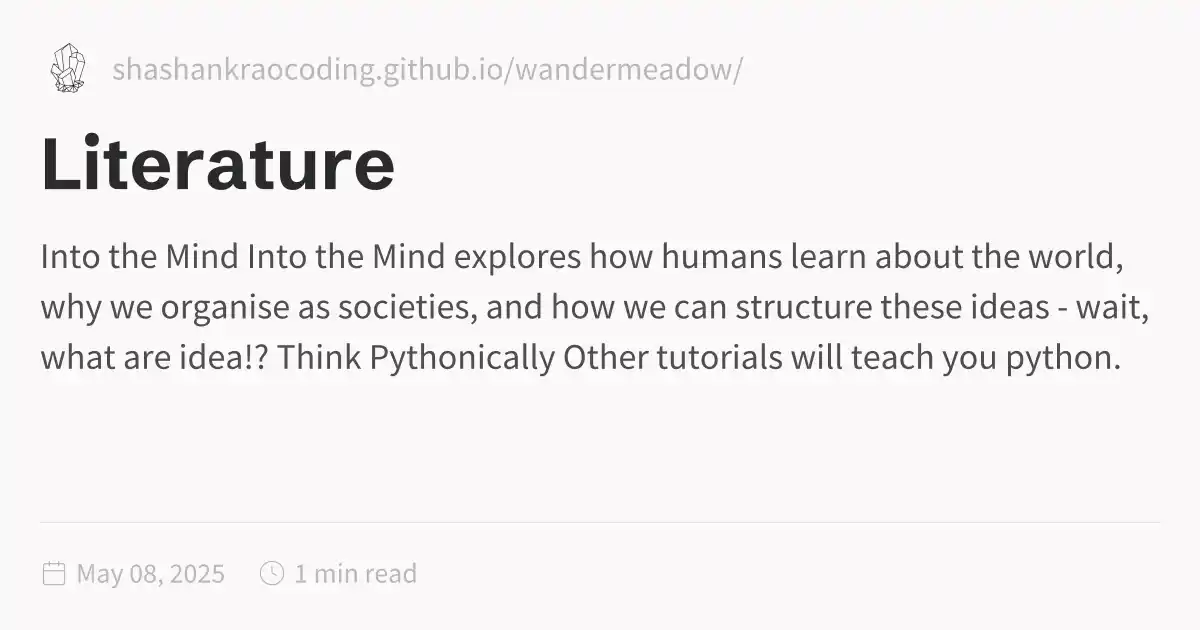
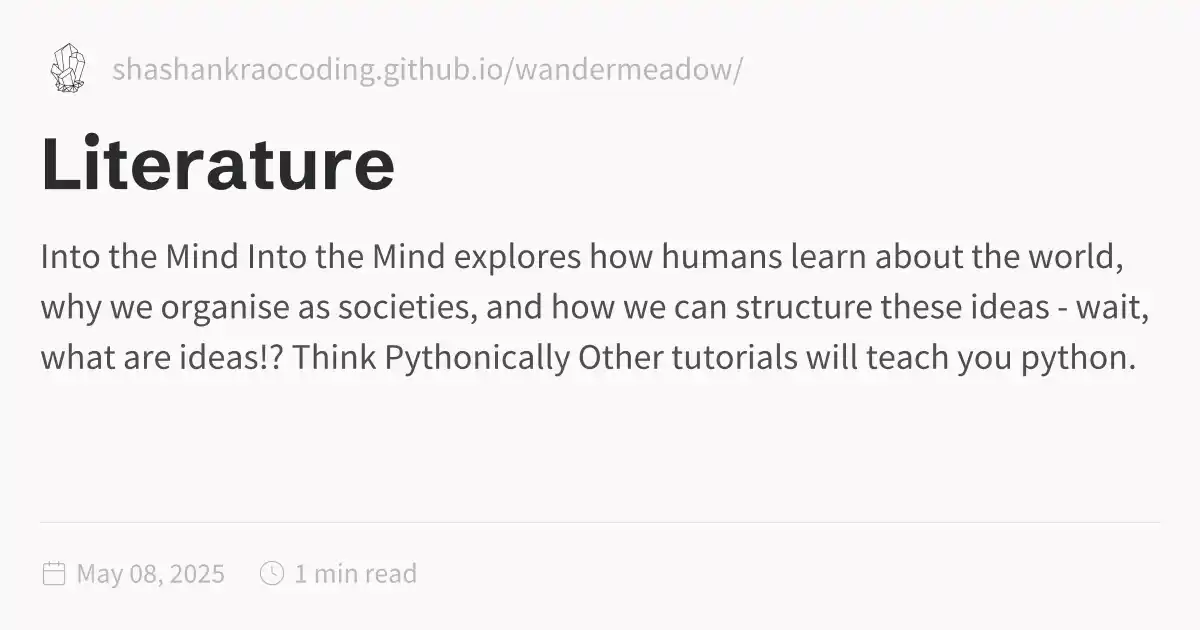
Update public folder - 2025-05-08\_1808

Changed region(s): [[0.185, 0.5429, 0.9558, 0.6032]]

diff --git a/Projects/index.html b/Projects/index.html
@@ -116,6 +116,6 @@ pre:hover > .expand-button {
   padding: 0 12px;
   font-size: 14px;
 }
[2 lines of base64/hex data omitted]
 </script><script type="module">function f(i,e){if(!i)return;function r(o){o.target===this&&(o.preventDefault(),o.stopPropagation(),e())}function t(o){o.key.startsWith("Esc")&&(o.preventDefault(),e())}i?.addEventListener("click",r),window.addCleanup(()=>i?.removeEventListener("click",r)),document.addEventListener("keydown",t),window.addCleanup(()=>document.removeEventListener("keydown",t))}function y(i){for(;i.firstChild;)i.removeChild(i.firstChild)}var h=class{constructor(e,r){this.container=e;this.content=r;this.setupEventListeners(),this.setupNavigationControls(),this.resetTransform()}isDragging=!1;startPan={x:0,y:0};currentPan={x:0,y:0};scale=1;MIN_SCALE=.5;MAX_SCALE=3;cleanups=[];setupEventListeners(){let e=this.onMouseDown.bind(this),r=this.onMouseMove.bind(this),t=this.onMouseUp.bind(this),o=this.resetTransform.bind(this);this.container.addEventListener("mousedown",e),document.addEventListener("mousemove",r),document.addEventListener("mouseup",t),window.addEventListener("resize",o),this.cleanups.push(()=>this.container.removeEventListener("mousedown",e),()=>document.removeEventListener("mousemove",r),()=>document.removeEventListener("mouseup",t),()=>window.removeEventListener("resize",o))}cleanup(){for(let e of this.cleanups)e()}setupNavigationControls(){let e=document.createElement("div");e.className="mermaid-controls";let r=this.createButton("+",()=>this.zoom(.1)),t=this.createButton("-",()=>this.zoom(-.1)),o=this.createButton("Reset",()=>this.resetTransform());e.appendChild(t),e.appendChild(o),e.appendChild(r),this.container.appendChild(e)}createButton(e,r){let t=document.createElement("button");return t.textContent=e,t.className="mermaid-control-button",t.addEventListener("click",r),window.addCleanup(()=>t.removeEventListener("click",r)),t}onMouseDown(e){e.button===0&&(this.isDragging=!0,this.startPan={x:e.clientX-this.currentPan.x,y:e.clientY-this.currentPan.y},this.container.style.cursor="grabbing")}onMouseMove(e){this.isDragging&&(e.preventDefault(),this.currentPan={x:e.clientX-this.startPan.x,y:e.clientY-this.startPan.y},this.updateTransform())}onMouseUp(){this.isDragging=!1,this.container.style.cursor="grab"}zoom(e){let r=Math.min(Math.max(this.scale+e,this.MIN_SCALE),this.MAX_SCALE),t=this.content.getBoundingClientRect(),o=t.width/2,n=t.height/2,c=r-this.scale;this.currentPan.x-=o*c,this.currentPan.y-=n*c,this.scale=r,this.updateTransform()}updateTransform(){this.content.style.transform=`translate(${this.currentPan.x}px, ${this.currentPan.y}px) scale(${this.scale})`}resetTransform(){this.scale=1;let e=this.content.querySelector("svg");this.currentPan={x:e.getBoundingClientRect().width/2,y:e.getBoundingClientRect().height/2},this.updateTransform()}},C=["--secondary","--tertiary","--gray","--light","--lightgray","--highlight","--dark","--darkgray","--codeFont"],E;document.addEventListener("nav",async()=>{let e=document.querySelector(".center").querySelectorAll("code.mermaid");if(e.length===0)return;E||=await import("https://cdnjs.cloudflare.com/ajax/libs/mermaid/11.4.0/mermaid.esm.min.mjs");let r=E.default,t=new WeakMap;for(let n of e)t.set(n,n.innerText);async function o(){for(let s of e){s.removeAttribute("data-processed");let a=t.get(s);a&&(s.innerHTML=a)}let n=C.reduce((s,a)=>(s[a]=window.getComputedStyle(document.documentElement).getPropertyValue(a),s),{}),c=document.documentElement.getAttribute("saved-theme")==="dark";r.initialize({startOnLoad:!1,securityLevel:"loose",theme:c?"dark":"base",themeVariables:{fontFamily:n["--codeFont"],primaryColor:n["--light"],primaryTextColor:n["--darkgray"],primaryBorderColor:n["--tertiary"],lineColor:n["--darkgray"],secondaryColor:n["--secondary"],tertiaryColor:n["--tertiary"],clusterBkg:n["--light"],edgeLabelBackground:n["--highlight"]}}),await r.run({nodes:e})}await o(),document.addEventListener("themechange",o),window.addCleanup(()=>document.removeEventListener("themechange",o));for(let n=0;n<e.length;n++){let v=function(){let g=l.querySelector("#mermaid-space"),m=l.querySelector(".mermaid-content");if(!m)return;y(m);let w=c.querySelector("svg").cloneNode(!0);m.appendChild(w),l.classList.add("active"),g.style.cursor="grab",u=new h(g,m)},M=function(){l.classList.remove("active"),u?.cleanup(),u=null},c=e[n],s=c.parentElement,a=s.querySelector(".clipboard-button"),d=s.querySelector(".expand-button"),p=window.getComputedStyle(a),L=a.offsetWidth+parseFloat(p.marginLeft||"0")+parseFloat(p.marginRight||"0");d.style.right=`calc(${L}px + 0.3rem)`,s.prepend(d);let l=s.querySelector("#mermaid-container");if(!l)return;let u=null;d.addEventListener("click",v),f(l,M),window.addCleanup(()=>{u?.cleanup(),d.removeEventListener("click",v)})}});
 </script><script src="https://cdn.jsdelivr.net/npm/katex@0.16.11/dist/contrib/copy-tex.min.js" type="application/javascript"></script><script src="../postscript.js" type="module"></script></html>

diff --git a/Projects/Literature.html b/Projects/Literature.html
@@ -1,5 +1,5 @@
 <!DOCTYPE html>
-<html lang="en"><head><title>Literature</title><meta charset="utf-8"/><link rel="preconnect" href="https://fonts.googleapis.com"/><link rel="preconnect" href="https://fonts.gstatic.com"/><link rel="stylesheet" href="https://fonts.googleapis.com/css2?family=Schibsted Grotesk:wght@400;700&amp;family=Source Sans Pro:ital,wght@0,400;0,600;1,400;1,600&amp;family=IBM Plex Mono:wght@400;600&amp;display=swap"/><link rel="preconnect" href="https://cdnjs.cloudflare.com" crossorigin="anonymous"/><meta name="viewport" content="width=device-width, initial-scale=1.0"/><meta name="og:site_name" content="Wander Meadow"/><meta property="og:title" content="Literature"/><meta property="og:type" content="website"/><meta name="twitter:card" content="summary_large_image"/><meta name="twitter:title" content="Literature"/><meta name="twitter:description" content="Into the Mind Into the Mind explores how humans learn about the world, why we organise as societies, and how we can structure these ideas - wait, what are idea!? Think Pythonically Other tutorials will teach you python."/><meta property="og:description" content="Into the Mind Into the Mind explores how humans learn about the world, why we organise as societies, and how we can structure these ideas - wait, what are idea!? Think Pythonically Other tutorials will teach you python."/><meta property="og:image:alt" content="Into the Mind Into the Mind explores how humans learn about the world, why we organise as societies, and how we can structure these ideas - wait, what are idea!? Think Pythonically Other tutorials will teach you python."/><meta property="twitter:domain" content="shashankraocoding.github.io/wandermeadow/"/><meta property="og:url" content="https://shashankraocoding.github.io/wandermeadow/Projects/Literature"/><meta property="twitter:url" content="https://shashankraocoding.github.io/wandermeadow/Projects/Literature"/><link rel="icon" href="../static/icon.png"/><meta name="description" content="Into the Mind Into the Mind explores how humans learn about the world, why we organise as societies, and how we can structure these ideas - wait, what are idea!? Think Pythonically Other tutorials will teach you python."/><meta name="generator" content="Quartz"/><link href="../index.css" rel="stylesheet" type="text/css" spa-preserve/><style>.expand-button {
+<html lang="en"><head><title>Literature</title><meta charset="utf-8"/><link rel="preconnect" href="https://fonts.googleapis.com"/><link rel="preconnect" href="https://fonts.gstatic.com"/><link rel="stylesheet" href="https://fonts.googleapis.com/css2?family=Schibsted Grotesk:wght@400;700&amp;family=Source Sans Pro:ital,wght@0,400;0,600;1,400;1,600&amp;family=IBM Plex Mono:wght@400;600&amp;display=swap"/><link rel="preconnect" href="https://cdnjs.cloudflare.com" crossorigin="anonymous"/><meta name="viewport" content="width=device-width, initial-scale=1.0"/><meta name="og:site_name" content="Wander Meadow"/><meta property="og:title" content="Literature"/><meta property="og:type" content="website"/><meta name="twitter:card" content="summary_large_image"/><meta name="twitter:title" content="Literature"/><meta name="twitter:description" content="Into the Mind Into the Mind explores how humans learn about the world, why we organise as societies, and how we can structure these ideas - wait, what are ideas!? Think Pythonically Other tutorials will teach you python."/><meta property="og:description" content="Into the Mind Into the Mind explores how humans learn about the world, why we organise as societies, and how we can structure these ideas - wait, what are ideas!? Think Pythonically Other tutorials will teach you python."/><meta property="og:image:alt" content="Into the Mind Into the Mind explores how humans learn about the world, why we organise as societies, and how we can structure these ideas - wait, what are ideas!? Think Pythonically Other tutorials will teach you python."/><meta property="twitter:domain" content="shashankraocoding.github.io/wandermeadow/"/><meta property="og:url" content="https://shashankraocoding.github.io/wandermeadow/Projects/Literature"/><meta property="twitter:url" content="https://shashankraocoding.github.io/wandermeadow/Projects/Literature"/><link rel="icon" href="../static/icon.png"/><meta name="description" content="Into the Mind Into the Mind explores how humans learn about the world, why we organise as societies, and how we can structure these ideas - wait, what are ideas!? Think Pythonically Other tutorials will teach you python."/><meta name="generator" content="Quartz"/><link href="../index.css" rel="stylesheet" type="text/css" spa-preserve/><style>.expand-button {
   position: absolute;
   display: flex;
   float: right;
@@ -116,18 +116,18 @@ pre:hover > .expand-button {
   padding: 0 12px;
   font-size: 14px;
 }
[2 lines of base64/hex data omitted]
 	<div onclick="redirect('Projects/Into-the-Mind')" class="card"> 
 		<h3 id="into-the-mind">Into the Mind<a role="anchor" aria-hidden="true" tabindex="-1" data-no-popover="true" href="#into-the-mind" class="internal"><svg width="18" height="18" viewBox="0 0 24 24" fill="none" stroke="currentColor" stroke-width="2" stroke-linecap="round" stroke-linejoin="round"><path d="M10 13a5 5 0 0 0 7.54.54l3-3a5 5 0 0 0-7.07-7.07l-1.72 1.71"></path><path d="M14 11a5 5 0 0 0-7.54-.54l-3 3a5 5 0 0 0 7.07 7.07l1.71-1.71"></path></svg></a></h3> 
-		<p> Into the Mind explores how humans learn about the world, why we organise as societies, and how we can structure these ideas - wait, what are idea!? </p> 
+		<p> Into the Mind explores how humans learn about the world, why we organise as societies, and how we can structure these ideas - wait, what are ideas!? </p> 
 	</div>  
 	<div onclick="redirect('Projects/Think-Pythonically')" class="card"> 
 		<h3 id="think-pythonically">Think Pythonically<a role="anchor" aria-hidden="true" tabindex="-1" data-no-popover="true" href="#think-pythonically" class="internal"><svg width="18" height="18" viewBox="0 0 24 24" fill="none" stroke="currentColor" stroke-width="2" stroke-linecap="round" stroke-linejoin="round"><path d="M10 13a5 5 0 0 0 7.54.54l3-3a5 5 0 0 0-7.07-7.07l-1.72 1.71"></path><path d="M14 11a5 5 0 0 0-7.54-.54l-3 3a5 5 0 0 0 7.07 7.07l1.71-1.71"></path></svg></a></h3> 
-		<p> Other tutorials will teach you python. This one will teach you hot to learn and think pythonically. </p> 
+		<p> Other tutorials will teach you python. This one will teach you hot to learn and think pythonically. I've been programming for nearly 8 years in various languages, and this is how I would go about teaching myself. </p> 
 	</div>  
 	<div onclick="redirect('Projects/Records-from-Omnisciae')" class="card"> 
 		<h3 id="records-from-omnisciae">Records from Omnisciae<a role="anchor" aria-hidden="true" tabindex="-1" data-no-popover="true" href="#records-from-omnisciae" class="internal"><svg width="18" height="18" viewBox="0 0 24 24" fill="none" stroke="currentColor" stroke-width="2" stroke-linecap="round" stroke-linejoin="round"><path d="M10 13a5 5 0 0 0 7.54.54l3-3a5 5 0 0 0-7.07-7.07l-1.72 1.71"></path><path d="M14 11a5 5 0 0 0-7.54-.54l-3 3a5 5 0 0 0 7.07 7.07l1.71-1.71"></path></svg></a></h3> 
-		<p>My most ambitious fantasy-fiction story set in the realm of Ayonea!</p> 
+		<p>Coming soon</p> 
 	</div>     
 	<script src="https://shashankraocoding.github.io/wandermeadow/Website-Resources/Javascript/literature.js"></script>
 </div></article><hr/><div class="page-footer"></div></div><div class="right sidebar"><div class="graph"><h3>Graph View</h3><div class="graph-outer"><div class="graph-container" data-cfg="{&quot;drag&quot;:true,&quot;zoom&quot;:true,&quot;depth&quot;:1,&quot;scale&quot;:1.1,&quot;repelForce&quot;:0.5,&quot;centerForce&quot;:0.3,&quot;linkDistance&quot;:30,&quot;fontSize&quot;:0.6,&quot;opacityScale&quot;:1,&quot;showTags&quot;:true,&quot;removeTags&quot;:[],&quot;focusOnHover&quot;:false,&quot;enableRadial&quot;:false}"></div><button class="global-graph-icon" aria-label="Global Graph"><svg version="1.1" xmlns="http://www.w3.org/2000/svg" xmlns:xlink="http://www.w3.org/1999/xlink" x="0px" y="0px" viewBox="0 0 55 55" fill="currentColor" xml:space="preserve"><path d="M49,0c-3.309,0-6,2.691-6,6c0,1.035,0.263,2.009,0.726,2.86l-9.829,9.829C32.542,17.634,30.846,17,29,17
